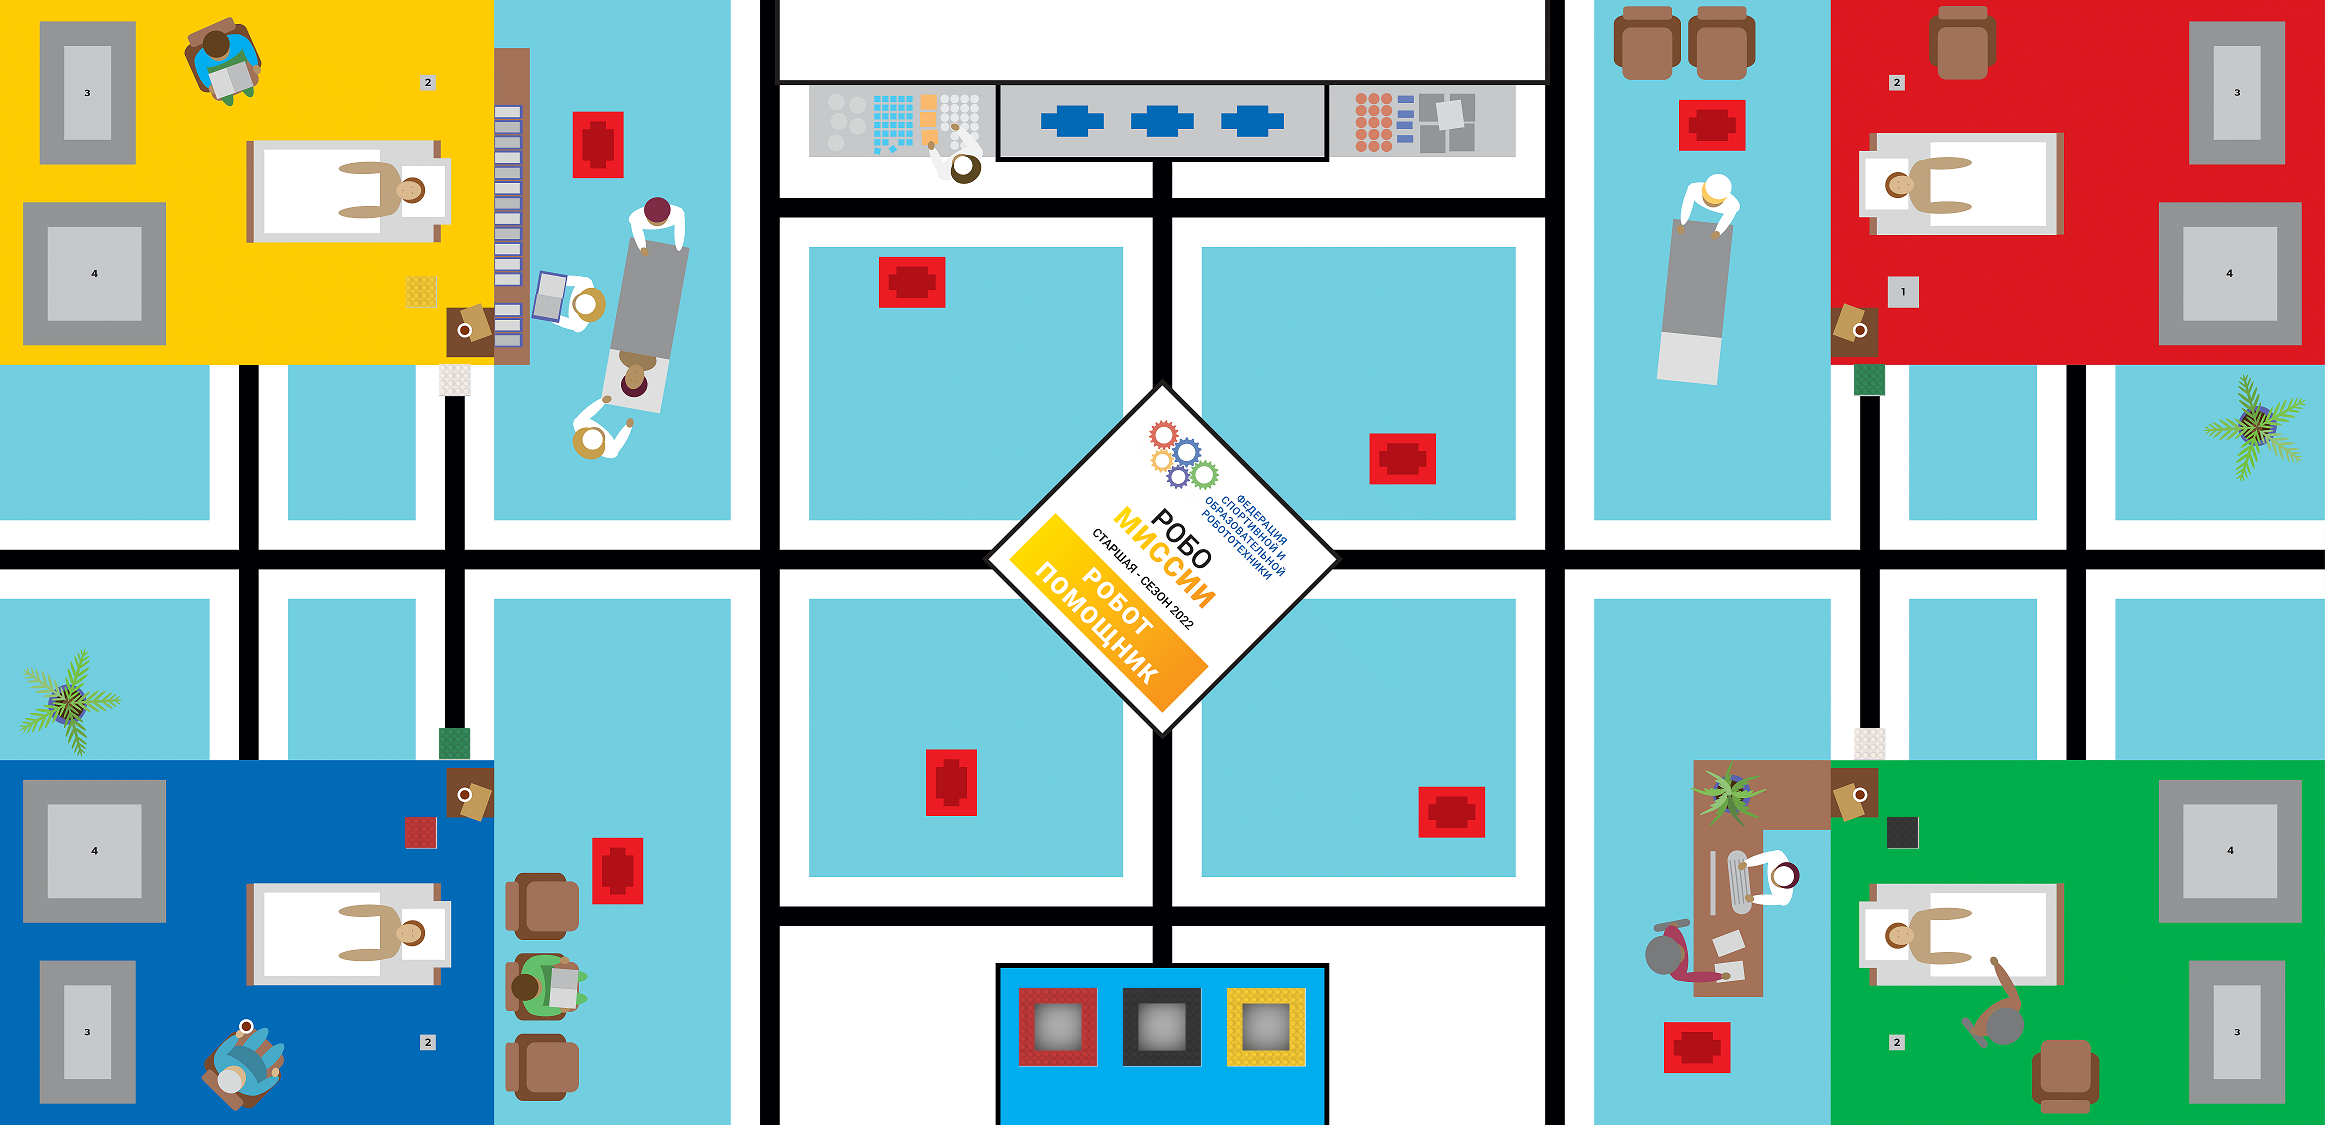
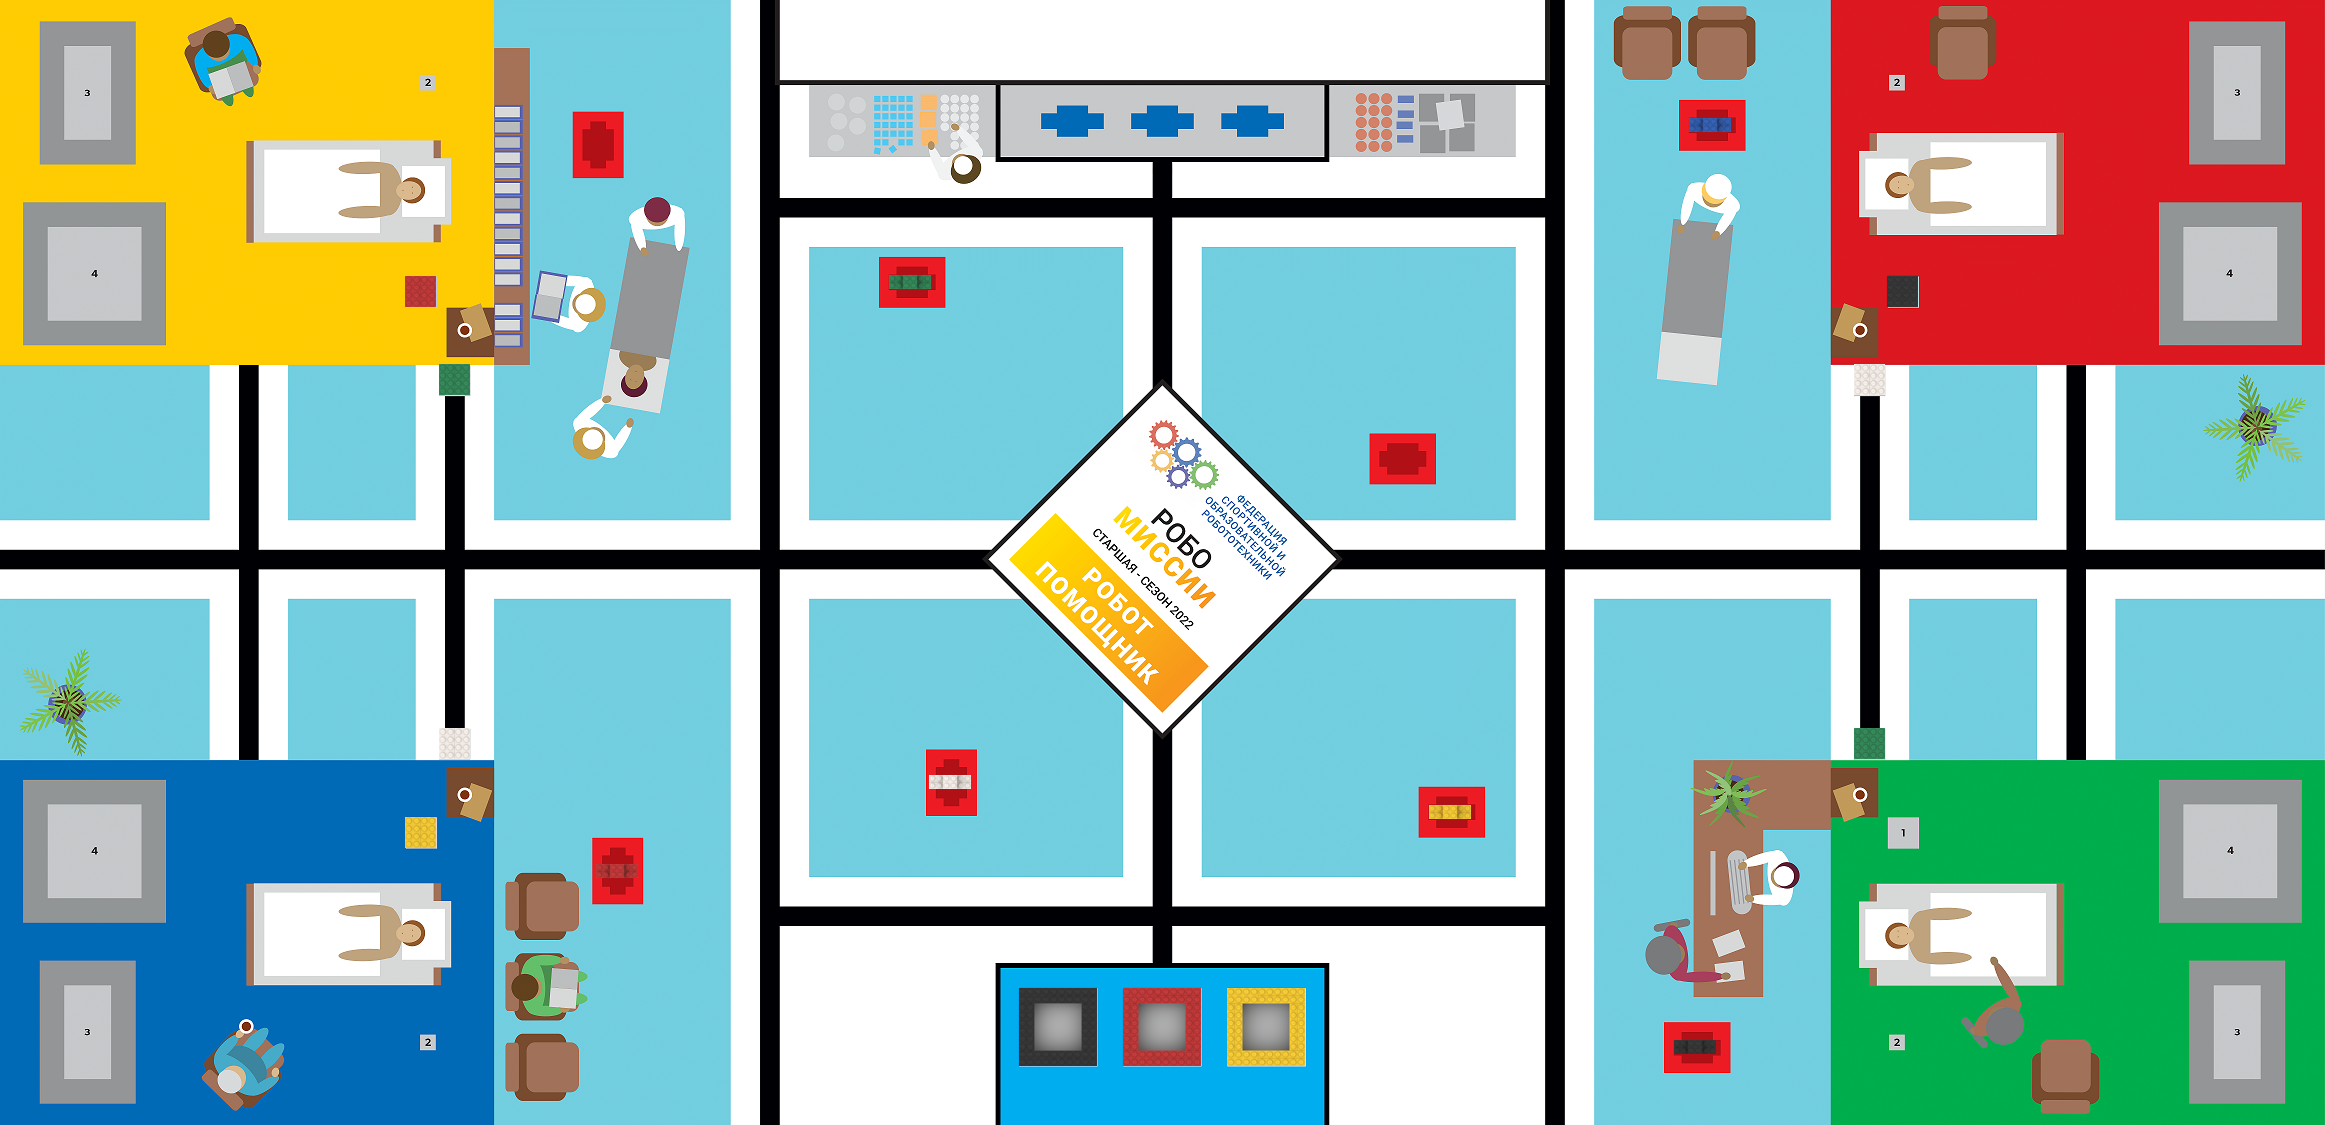
men added

diff --git a/data/make_image.py b/data/make_image.py
@@ -4,79 +4,112 @@ from PIL import Image
 PATH_IMG = 'static/img/field_res/'
 
 MARKERS_NUM_TO_PIX_COORDS = {
-    0: (3513 // 8, 2919 // 8),
-    1: (14832 // 8, 2919 // 8),
-    2: (14832 // 8, 5831 // 8),
-    3: (3513 // 8, 5831 // 8),
+    0: (439, 364),
+    1: (1854, 364),
+    2: (1854, 728),
+    3: (439, 728)
 }
 
-MARKER_SIZE = (249 // 8, 249 // 8)
+MARKER_SIZE = (31, 31)
 
 CUBES_NUM_TO_PIX_COORDS = {
-    0: (3247 // 8, 2212 // 8),
-    1: (15102 // 8, 2212 // 8),
-    2: (15102 // 8, 6539 // 8),
-    3: (3247 // 8, 6540 // 8),
+    0: (405, 276),
+    1: (1887, 276),
+    2: (1887, 817),
+    3: (405, 817)
 }
 
-CUBE_SIZE = (249 // 8, 249 // 8)
+CUBE_SIZE = (31, 31)
 
 FRAMES_NUM_TO_PIX_COORDS = {
-    0: (8154 // 8, 7906 // 8),
-    1: (8986 // 8, 7906 // 8),
-    2: (9820 // 8, 7906 // 8)
+    0: (1019, 988),
+    1: (1123, 988),
+    2: (1227, 988)
 }
 
-FRAME_SIZE = (624 // 8, 624 // 8)
+FRAME_SIZE = (78, 78)
+
+MEN_NUM_TO_PIX_COORDS = {
+    0: (575, 135),
+    1: (889, 275),
+    2: (1380, 451),
+    3: (1689, 118),
+    4: (596, 864),
+    5: (929, 775),
+    6: (1429, 805),
+    7: (1674, 1040)
+}
+
+MAN_SIZE = (45, 14)
 
 
 def init_resources():
     # cubes
-    cube_red = Image.open(PATH_IMG + 'cube_red.png')
-    cube_yellow = Image.open(PATH_IMG + 'cube_yellow.png')
-    cube_black = Image.open(PATH_IMG + 'cube_black.png')
+    cube_red = Image.open(PATH_IMG + 'cubes/cube_red.png')
+    cube_yellow = Image.open(PATH_IMG + 'cubes/cube_yellow.png')
+    cube_black = Image.open(PATH_IMG + 'cubes/cube_black.png')
 
     cube_red.thumbnail(CUBE_SIZE)
     cube_yellow.thumbnail(CUBE_SIZE)
     cube_black.thumbnail(CUBE_SIZE)
 
-    cube_red.save(PATH_IMG + 'cube_red.png')
-    cube_yellow.save(PATH_IMG + 'cube_yellow.png')
-    cube_black.save(PATH_IMG + 'cube_black.png')
-
-    cube_red.show()
+    cube_red.save(PATH_IMG + 'cubes/cube_red.png')
+    cube_yellow.save(PATH_IMG + 'cubes/cube_yellow.png')
+    cube_black.save(PATH_IMG + 'cubes/cube_black.png')
 
     # markers
-    marker_green = Image.open(PATH_IMG + 'marker_green.png')
-    marker_white = Image.open(PATH_IMG + 'marker_white.png')
+    marker_green = Image.open(PATH_IMG + 'markers/marker_green.png')
+    marker_white = Image.open(PATH_IMG + 'markers/marker_white.png')
 
     marker_green.thumbnail(MARKER_SIZE)
     marker_white.thumbnail(MARKER_SIZE)
 
-    marker_green.save(PATH_IMG + 'marker_green.png')
-    marker_white.save(PATH_IMG + 'marker_white.png')
+    marker_green.save(PATH_IMG + 'markers/marker_green.png')
+    marker_white.save(PATH_IMG + 'markers/marker_white.png')
 
     # frames
-    frame_red = Image.open(PATH_IMG + 'frame_red.png')
-    frame_yellow = Image.open(PATH_IMG + 'frame_yellow.png')
-    frame_black = Image.open(PATH_IMG + 'frame_black.png')
+    frame_red = Image.open(PATH_IMG + 'frames/frame_red.png')
+    frame_yellow = Image.open(PATH_IMG + 'frames/frame_yellow.png')
+    frame_black = Image.open(PATH_IMG + 'frames/frame_black.png')
 
     frame_red.thumbnail(FRAME_SIZE)
     frame_yellow.thumbnail(FRAME_SIZE)
     frame_black.thumbnail(FRAME_SIZE)
 
-    frame_red.save(PATH_IMG + 'frame_red.png')
-    frame_yellow.save(PATH_IMG + 'frame_yellow.png')
-    frame_black.save(PATH_IMG + 'frame_black.png')
+    frame_red.save(PATH_IMG + 'frames/frame_red.png')
+    frame_yellow.save(PATH_IMG + 'frames/frame_yellow.png')
+    frame_black.save(PATH_IMG + 'frames/frame_black.png')
+
+    # men
+    man_black = Image.open(PATH_IMG + 'men/man_black.png')
+    man_blue = Image.open(PATH_IMG + 'men/man_blue.png')
+    man_green = Image.open(PATH_IMG + 'men/man_green.png')
+    man_red = Image.open(PATH_IMG + 'men/man_red.png')
+    man_white = Image.open(PATH_IMG + 'men/man_white.png')
+    man_yellow = Image.open(PATH_IMG + 'men/man_yellow.png')
+
+    man_black.thumbnail(MAN_SIZE)
+    man_blue.thumbnail(MAN_SIZE)
+    man_green.thumbnail(MAN_SIZE)
+    man_red.thumbnail(MAN_SIZE)
+    man_white.thumbnail(MAN_SIZE)
+    man_yellow.thumbnail(MAN_SIZE)
+
+    man_black.save(PATH_IMG + 'men/man_black.png')
+    man_blue.save(PATH_IMG + 'men/man_blue.png')
+    man_green.save(PATH_IMG + 'men/man_green.png')
+    man_red.save(PATH_IMG + 'men/man_red.png')
+    man_white.save(PATH_IMG + 'men/man_white.png')
+    man_yellow.save(PATH_IMG + 'men/man_yellow.png')
 
 
-def create_field(markers, frames, cubes) -> str:
+def create_field(markers, frames, cubes, men) -> str:
     """returns path to image"""
 
     # cubes
-    cube_red = Image.open(PATH_IMG + 'cube_red.png')
-    cube_yellow = Image.open(PATH_IMG + 'cube_yellow.png')
-    cube_black = Image.open(PATH_IMG + 'cube_black.png')
+    cube_red = Image.open(PATH_IMG + 'cubes/cube_red.png')
+    cube_yellow = Image.open(PATH_IMG + 'cubes/cube_yellow.png')
+    cube_black = Image.open(PATH_IMG + 'cubes/cube_black.png')
 
     NUM_TO_CUBES = {
         0: cube_black,
@@ -86,13 +119,21 @@ def create_field(markers, frames, cubes) -> str:
     }
 
     # markers
-    marker_green = Image.open(PATH_IMG + 'marker_green.png')
-    marker_white = Image.open(PATH_IMG + 'marker_white.png')
+    marker_green = Image.open(PATH_IMG + 'markers/marker_green.png')
+    marker_white = Image.open(PATH_IMG + 'markers/marker_white.png')
 
     # frames
-    frame_red = Image.open(PATH_IMG + 'frame_red.png')
-    frame_yellow = Image.open(PATH_IMG + 'frame_yellow.png')
-    frame_black = Image.open(PATH_IMG + 'frame_black.png')
+    frame_red = Image.open(PATH_IMG + 'frames/frame_red.png')
+    frame_yellow = Image.open(PATH_IMG + 'frames/frame_yellow.png')
+    frame_black = Image.open(PATH_IMG + 'frames/frame_black.png')
+
+    # men
+    man_black = Image.open(PATH_IMG + 'men/man_black.png')
+    man_blue = Image.open(PATH_IMG + 'men/man_blue.png')
+    man_green = Image.open(PATH_IMG + 'men/man_green.png')
+    man_red = Image.open(PATH_IMG + 'men/man_red.png')
+    man_white = Image.open(PATH_IMG + 'men/man_white.png')
+    man_yellow = Image.open(PATH_IMG + 'men/man_yellow.png')
 
     NUM_TO_FRAMES = {
         0: frame_black,
@@ -101,6 +142,7 @@ def create_field(markers, frames, cubes) -> str:
     }
 
     with Image.open(PATH_IMG + 'wro_default.png') as img_field:
+        # markers
         img_field.paste(marker_green, MARKERS_NUM_TO_PIX_COORDS[markers[0]])
         img_field.paste(marker_green, MARKERS_NUM_TO_PIX_COORDS[markers[1]])
 
@@ -116,6 +158,9 @@ def create_field(markers, frames, cubes) -> str:
             if NUM_TO_CUBES[cube]:
                 img_field.paste(NUM_TO_CUBES[cube], CUBES_NUM_TO_PIX_COORDS[ind])
 
+        # men
+        men_img = [man_black, man_blue, man_green, man_red, man_white, man_yellow]
+        for pos, img_man in zip(men[2:], men_img):
+            img_field.paste(img_man, MEN_NUM_TO_PIX_COORDS[pos])
+
         img_field.save(PATH_IMG + 'img_res.png')
-
-

diff --git a/main.py b/main.py
@@ -20,37 +20,39 @@ NUM_TO_ROOM = {
 
 @app.route('/')
 def main():
-    # make_image.init_resources()
+    make_image.init_resources()
     # generate markers
 
     markers = random_org.get_random_range(0, 3)
 
-    # green markers 2 first
-
-    # print(f'GREEN markers: {[NUM_TO_ROOM[marker] for marker in markers[:2]]}')
-    # print(f'WHITE markers: {[NUM_TO_ROOM[marker] for marker in markers[2:]]}')
+    # 2 first are green markers positions
+    # 2 second are white markers positions
 
     # generate frames
 
     frames = random_org.get_random_range(0, 2)
 
-    NUM_TO_COL = {
-        0: 'black',
-        1: 'red',
-        2: 'yellow',
-        3: 'null'
-    }
-
-    # print(f'FRAMES: {[NUM_TO_COL[frame] for frame in frames]}')
+    # generate colors from 1 to 3 frame
+    # 0 -> black
+    # 1 -> red
+    # 2 -> yellow
 
     # generate cubes
 
     cubes = random_org.get_random_range(0, 3)
+    # generate cubes for yellow, red, green, blue room
+    # numbers to colors:
+    # 0 -> black
+    # 1 -> red
+    # 2 -> yellow
+    # 3 -> null
 
-    # print(
-    #     f'CUBES: {[(NUM_TO_ROOM[el[0]], el[1]) for el in (enumerate([NUM_TO_COL[cube] for cube in cubes]))]}')
+    # generate men
 
-    make_image.create_field(markers, frames, cubes)
+    men = random_org.get_random_range(0, 7)
+    # generates positions for null, null, yellow, green, red, blue, white, black
+
+    make_image.create_field(markers, frames, cubes, men)
 
     return render_template('index.html')
 
